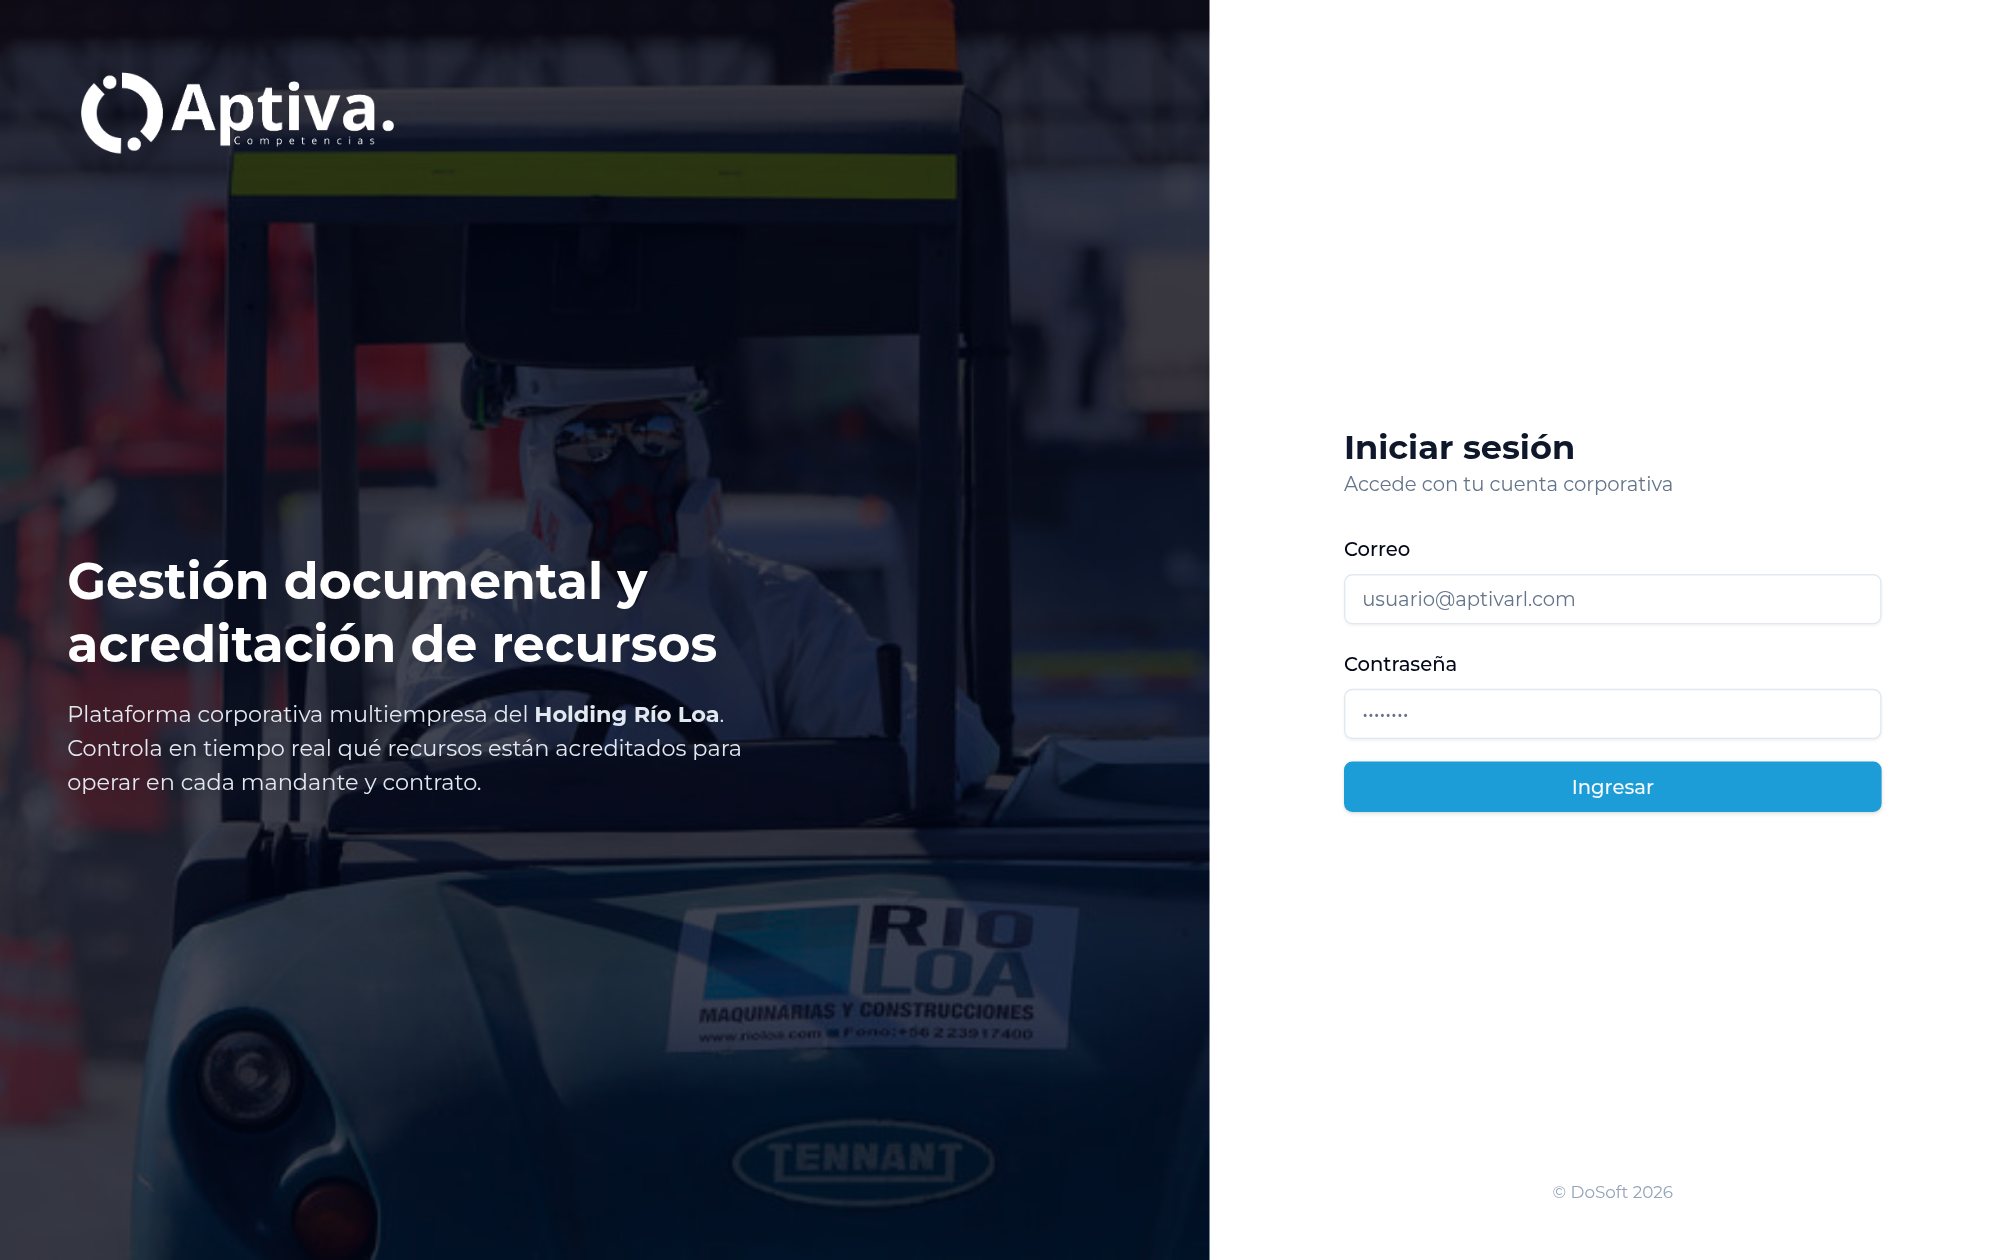
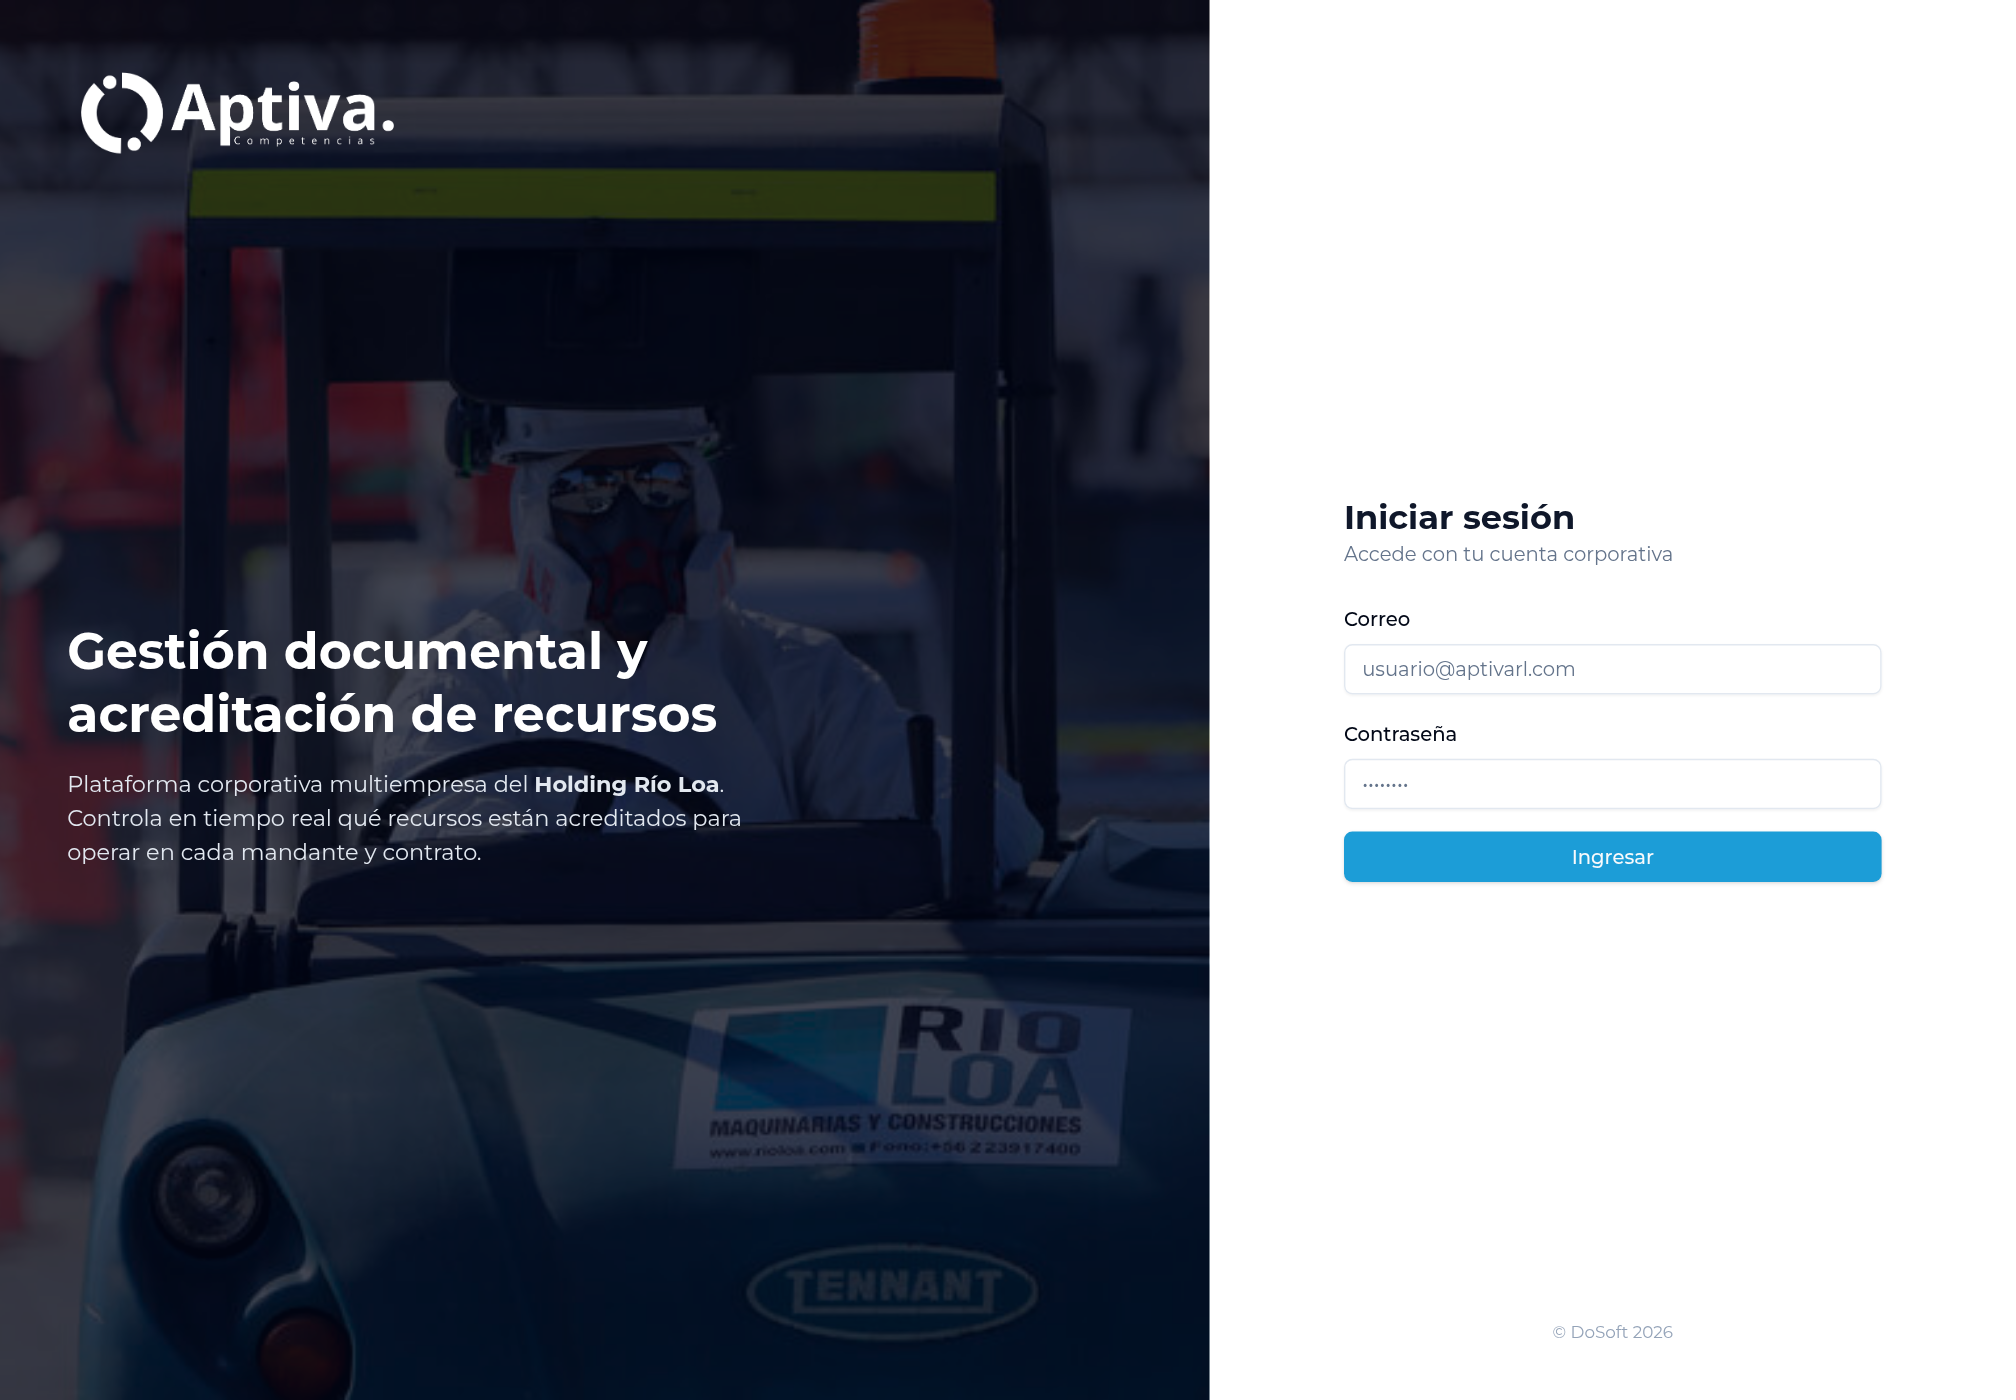
Listo. Cada manual ahora usa capturas reales tomadas **con su propio perfil**, sin cortes en el PDF.
## Capturas por perfil — Completado

**Qué se corrigió:**
- Las capturas ya **no muestran la vista del Super Admin** en todos los manuales. Se tomaron screenshots reales **iniciando sesión con cada perfil**:
  - **Super Admin Holding**: menú completo con Administración (Dashboard, Mandantes, Trabajadores, Ficha, Usuarios, Control de Acceso).
  - **RR.HH.**: Trabajadores, Ficha, Pendientes de Revisión, Vencimientos, Personal Finiquitado.
  - **Prevención/APR**: Dashboard, Trabajadores, Ficha, Pendientes de Revisión, Vencimientos — con su menú real (**sin Administración ni Personal Finiquitado**, cabecera "Yesenia Marchant · Prevención").
  - **Visor**: Dashboard, Ficha, Vencimientos — con cabecera "Visor" y su menú.
- Cada manual apunta a su propia carpeta de imágenes (`/manual/<perfil>/…`); la pantalla de login es común.

**Detalles técnicos:**
- Se creó un usuario **Visor temporal** solo para capturar sus vistas y se **eliminó** al terminar (no quedó ningún usuario de prueba).
- Verificado con **PDFs reales** por perfil (Prevención 7 págs, Visor 5 págs): las capturas corresponden a cada perfil y **no se cortan**.
- Capturas antiguas del Super Admin removidas del nivel raíz; script de regeneración en `/app/scripts/capture_manual_shots.js`.
- `puppeteer-core` retirado de dependencias tras capturar (protege el `yarn install` de producción).

Es un cambio de contenido/imágenes (frontend), verificado con PDF real. Llegará a producción con el despliegue.
[…]

diff --git a/scripts/capture_manual_shots.js b/scripts/capture_manual_shots.js
@@ -1,85 +1,95 @@
-// Captura screenshots reales de la plataforma para los manuales.
-// Ejecutar: node scripts/capture_manual_shots.js
+// Captura screenshots reales por PERFIL para los manuales.
+// Requiere puppeteer-core (temporal). node scripts/capture_manual_shots.js
 const puppeteer = require('puppeteer-core');
-const fs = require('fs');
 const path = require('path');
-
-const OUT = '/app/public/manual';
 const BASE = 'http://localhost:3000';
-const CHROME = fs.existsSync('/usr/bin/google-chrome') ? '/usr/bin/google-chrome' : '/root/bin/chromium';
-
+const CHROME = '/usr/bin/google-chrome';
+const OUT = '/app/public/manual';
+const MID_SQM = '80eee7c1-f817-4f25-a303-09ca108f3824';
 const sleep = (ms) => new Promise((r) => setTimeout(r, ms));
 
-async function clickText(page, text) {
+async function apiLogin(email, password) {
+  const r = await fetch(`${BASE}/api/auth/login`, { method: 'POST', headers: { 'Content-Type': 'application/json' }, body: JSON.stringify({ email, password }) });
+  return r.json();
+}
+
+async function clickNav(page, text) {
   const els = await page.$x(`//nav//*[normalize-space(text())='${text}']`);
-  let el = els[0];
-  if (!el) { const e2 = await page.$x(`//*[normalize-space(text())='${text}']`); el = e2[0]; }
-  if (el) { await el.click(); return true; }
+  if (els[0]) { await els[0].click(); return true; }
   return false;
 }
 
 async function login(page, email, password) {
   await page.goto(BASE, { waitUntil: 'networkidle2', timeout: 45000 });
-  await sleep(1200);
-  await page.waitForSelector('input[placeholder="usuario@aptivarl.com"]', { timeout: 20000 });
-  await page.type('input[placeholder="usuario@aptivarl.com"]', email, { delay: 10 });
-  await page.type('input[type="password"]', password, { delay: 10 });
-  const [btn] = await page.$x(`//button[contains(.,'Ingresar')]`);
-  await btn.click();
+  await page.evaluate(() => localStorage.clear());
+  await page.reload({ waitUntil: 'networkidle2' });
+  await sleep(1000);
+  await page.waitForSelector('input[type="password"]', { timeout: 20000 });
+  await page.type('input[placeholder="usuario@aptivarl.com"]', email, { delay: 8 });
+  await page.type('input[type="password"]', password, { delay: 8 });
+  const [b] = await page.$x(`//button[contains(.,'Ingresar')]`);
+  await b.click();
   await page.waitForFunction(() => !document.querySelector('input[type="password"]'), { timeout: 25000 });
-  await sleep(3500);
+  await sleep(3000);
 }
 
-async function shot(page, name) {
-  try { await page.screenshot({ path: path.join(OUT, name + '.png') }); console.log('  saved', name); }
-  catch (e) { console.log('  shot err', name, e.message); }
-}
-
-async function nav(page, text, name) {
+async function capture(page, id, shot) {
+  const file = path.join(OUT, id, shot + '.png');
   try {
-    const ok = await clickText(page, text);
-    if (!ok) { console.log('  nav miss', text); return false; }
-    await sleep(2800);
-    await shot(page, name);
-    return true;
-  } catch (e) { console.log('  nav err', text, e.message); return false; }
+    if (shot === 'dashboard') await clickNav(page, 'Dashboard');
+    else if (shot === 'mandantes') await clickNav(page, 'Mandantes');
+    else if (shot === 'trabajadores') await clickNav(page, 'Trabajadores');
+    else if (shot === 'pendientes') await clickNav(page, 'Pendientes de Revisión');
+    else if (shot === 'vencimientos') await clickNav(page, 'Vencimientos');
+    else if (shot === 'usuarios') await clickNav(page, 'Usuarios');
+    else if (shot === 'acceso') await clickNav(page, 'Control de Acceso');
+    else if (shot === 'finiquitados') await clickNav(page, 'Personal Finiquitado');
+    else if (shot === 'ficha_doc') {
+      await clickNav(page, 'Trabajadores'); await sleep(2600);
+      const [acc] = await page.$x(`//button[normalize-space(.)='Acceder']`);
+      if (acc) { await acc.click(); await sleep(3200); }
+    }
+    await sleep(2400);
+    await page.screenshot({ path: file });
+    console.log('  OK', id, shot);
+  } catch (e) { console.log('  ERR', id, shot, e.message); }
 }
+
+const JOBS = [
+  { id: 'super_admin', email: 'admin@aptivarl.com', shots: ['dashboard', 'mandantes', 'trabajadores', 'ficha_doc', 'usuarios', 'acceso'] },
+  { id: 'rrhh', email: 'pmiranda@rioloa.cl', shots: ['trabajadores', 'ficha_doc', 'pendientes', 'vencimientos', 'finiquitados'] },
+  { id: 'prevencion', email: 'ymarchant@rioloa.cl', shots: ['dashboard', 'trabajadores', 'ficha_doc', 'pendientes', 'vencimientos'] },
+  { id: 'visor', email: 'visor.tmp@rioloa.cl', shots: ['dashboard', 'ficha_doc', 'vencimientos'] },
+];
 
 (async () => {
-  fs.mkdirSync(OUT, { recursive: true });
-  const browser = await puppeteer.launch({ executablePath: CHROME, headless: 'new', args: ['--no-sandbox', '--disable-setuid-sandbox', '--disable-dev-shm-usage'] });
-  const page = await browser.newPage();
-  await page.setViewport({ width: 1440, height: 900, deviceScaleFactor: 1.4 });
-
-  // ===== Super Admin Holding =====
-  console.log('== Super Admin ==');
-  await login(page, 'admin@aptivarl.com', 'Aptiva2025!');
-  await shot(page, 'dashboard');
-  await nav(page, 'Mandantes', 'mandantes');
-  await nav(page, 'Trabajadores', 'trabajadores');
-  // abrir ficha del primer trabajador
+  const adm = await apiLogin('admin@aptivarl.com', 'Aptiva2025!');
+  let visorId = null;
   try {
-    const row = await page.$('table tbody tr');
-    if (row) { await row.click(); await sleep(3200); await shot(page, 'ficha_doc'); }
-  } catch (e) { console.log('  ficha err', e.message); }
-  await nav(page, 'Pendientes de Revisión', 'pendientes');
-  await nav(page, 'Vencimientos', 'vencimientos');
-  await nav(page, 'Usuarios', 'usuarios');
-  await nav(page, 'Control de Acceso', 'acceso');
-  // sidebar completo (recorta franja izquierda del dashboard)
-  await nav(page, 'Dashboard', '_dash2');
-  try { await page.screenshot({ path: path.join(OUT, 'sidebar_holding.png'), clip: { x: 0, y: 0, width: 250, height: 900 } }); console.log('  saved sidebar_holding'); } catch (e) { console.log(e.message); }
+    const r = await fetch(`${BASE}/api/usuarios`, { method: 'POST', headers: { 'Content-Type': 'application/json', Authorization: `Bearer ${adm.token}` }, body: JSON.stringify({ email: 'visor.tmp@rioloa.cl', password: 'Aptiva2025!', nombre: 'Visor Demo', role_codigo: 'MANDANTE_VISOR', mandantes: [MID_SQM] }) });
+    const j = await r.json(); visorId = j.perfil?.perfil_id; console.log('visor temp:', r.status, visorId || j.error);
+  } catch (e) { console.log('visor create err', e.message); }
 
-  // ===== RR.HH. =====
-  console.log('== RR.HH. (pmiranda) ==');
-  try {
-    await login(page, 'pmiranda@rioloa.cl', 'Aptiva2025!');
-    await sleep(1500);
-    try { await page.screenshot({ path: path.join(OUT, 'sidebar_rrhh.png'), clip: { x: 0, y: 0, width: 250, height: 900 } }); console.log('  saved sidebar_rrhh'); } catch (e) {}
-    await nav(page, 'Personal Finiquitado', 'finiquitados');
-  } catch (e) { console.log('  rrhh err', e.message); }
+  const b = await puppeteer.launch({ executablePath: CHROME, headless: 'new', args: ['--no-sandbox', '--disable-setuid-sandbox', '--disable-dev-shm-usage'] });
+  const page = await b.newPage();
+  await page.setViewport({ width: 1440, height: 1000, deviceScaleFactor: 1.4 });
 
-  await browser.close();
-  console.log('DONE');
-  process.exit(0);
+  await page.goto(BASE, { waitUntil: 'networkidle2', timeout: 45000 });
+  await page.evaluate(() => localStorage.clear());
+  await page.reload({ waitUntil: 'networkidle2' }); await sleep(1500);
+  await page.screenshot({ path: path.join(OUT, 'login.png') }); console.log('  OK login (compartido)');
+
+  for (const job of JOBS) {
+    console.log('== ' + job.id + ' ==');
+    try {
+      await login(page, job.email, 'Aptiva2025!');
+      for (const s of job.shots) await capture(page, job.id, s);
+    } catch (e) { console.log('  login err', job.id, e.message); }
+  }
+  await b.close();
+
+  if (visorId) {
+    try { const r = await fetch(`${BASE}/api/usuarios/${visorId}`, { method: 'DELETE', headers: { Authorization: `Bearer ${adm.token}` } }); console.log('visor delete:', r.status); } catch (e) { console.log('del err', e.message); }
+  }
+  console.log('DONE'); process.exit(0);
 })().catch((e) => { console.log('FATAL', e.message); process.exit(1); });

diff --git a/lib/manuales.js b/lib/manuales.js
@@ -11,8 +11,9 @@
 // también en la ventana de impresión (Guardar como PDF).
 const IMG_BASE = (typeof process !== 'undefined' && process.env && process.env.NEXT_PUBLIC_BASE_URL) ? process.env.NEXT_PUBLIC_BASE_URL.replace(/\/$/, '') : '';
 const LOGO_URL = `${IMG_BASE}/manual/logo-rioloa.png`;
-// Captura real de la plataforma
-const SHOT = (name, cap) => `<figure class="md-shot"><figcaption class="md-shot-cap">${cap}</figcaption><img class="md-img" src="${IMG_BASE}/manual/${name}.png" alt="${cap}" loading="lazy"/></figure>`;
+// Captura real de la plataforma (por perfil: carpeta = id del manual; login es compartido)
+const shotUrl = (m, name) => (name === 'login' ? `${IMG_BASE}/manual/login.png` : `${IMG_BASE}/manual/${m.id}/${name}.png`);
+const SHOT = (m, name, cap) => `<figure class="md-shot"><figcaption class="md-shot-cap">${cap}</figcaption><img class="md-img" src="${shotUrl(m, name)}" alt="${cap}" loading="lazy"/></figure>`;
 
 export const MANUALES = [
   {
@@ -220,17 +221,17 @@ export const MANUALES = [
 const chip = (txt, bg, fg) => `<span class="md-chip" style="background:${bg};color:${fg}">${txt}</span>`;
 
 const EXTRAS = {
-  login: () => SHOT('login', 'Pantalla de inicio de sesión'),
+  login: (m) => SHOT(m, 'login', 'Pantalla de inicio de sesión'),
 
-  dashboard: () => SHOT('dashboard', 'Dashboard · indicadores del Holding en tiempo real'),
+  dashboard: (m) => SHOT(m, 'dashboard', 'Dashboard · indicadores del Holding en tiempo real'),
 
-  mandantes: () => SHOT('mandantes', 'Operación → Mandantes (clientes de Río Loa)'),
+  mandantes: (m) => SHOT(m, 'mandantes', 'Operación → Mandantes (clientes de Río Loa)'),
 
-  recursos: () => SHOT('trabajadores', 'Recursos → Trabajadores'),
+  recursos: (m) => SHOT(m, 'trabajadores', 'Recursos → Trabajadores'),
 
-  trabajadores: () => SHOT('trabajadores', 'Recursos → Trabajadores'),
+  trabajadores: (m) => SHOT(m, 'trabajadores', 'Recursos → Trabajadores'),
 
-  estados: () => `
+  estados: (m) => `
     <div class="md-info">
       <div class="md-info-title">Estados de un documento</div>
       <div class="md-states">
@@ -241,22 +242,22 @@ const EXTRAS = {
         <div class="md-state">${chip('Vencido','#ffedd5','#9a3412')}<span>Venció, renovar</span></div>
       </div>
       <div class="md-flow">
-        <span>Cargar</span><i>→</i><span>En revisión</span><i>→</i><span>Aprobado</span><i>→</i><span>Vencido (renovar)</span>
+        <span>Cargar</span><i>&rarr;</i><span>En revisión</span><i>&rarr;</i><span>Aprobado</span><i>&rarr;</i><span>Vencido (renovar)</span>
       </div>
     </div>
-    ${SHOT('ficha_doc', 'Ficha del trabajador · pestaña «Documentación» con requisitos por categoría')}`,
+    ${SHOT(m, 'ficha_doc', 'Ficha del trabajador · pestaña «Documentación» con requisitos por categoría')}`,
 
-  ficha: () => SHOT('ficha_doc', 'Ficha del recurso · pestaña «Documentación»'),
+  ficha: (m) => SHOT(m, 'ficha_doc', 'Ficha del recurso · pestaña «Documentación»'),
 
-  revision: () => SHOT('pendientes', 'Acreditación → Pendientes de Revisión (Aprobar / Rechazar)'),
+  revision: (m) => SHOT(m, 'pendientes', 'Acreditación → Pendientes de Revisión (Aprobar / Rechazar)'),
 
-  vencimientos: () => SHOT('vencimientos', 'Acreditación → Vencimientos (por tramos de días)'),
+  vencimientos: (m) => SHOT(m, 'vencimientos', 'Acreditación → Vencimientos (por tramos de días)'),
 
-  usuarios: () => SHOT('usuarios', 'Administración → Usuarios (personal de Río Loa)'),
+  usuarios: (m) => SHOT(m, 'usuarios', 'Administración → Usuarios (personal de Río Loa)'),
 
-  acceso: () => SHOT('acceso', 'Administración → Control de Acceso (porterías / visor)'),
+  acceso: (m) => SHOT(m, 'acceso', 'Administración → Control de Acceso (porterías / visor)'),
 
-  finiquito: () => SHOT('finiquitados', 'Acreditación → Personal Finiquitado (desvinculaciones)'),
+  finiquito: (m) => SHOT(m, 'finiquitados', 'Acreditación → Personal Finiquitado (desvinculaciones)'),
 };
 
 /* ============================ Comparativo de permisos ============================ */
@@ -434,7 +435,7 @@ function bodyContenido(m) {
     <div class="md-sec">
       <h2>${i + 1}. ${s.titulo}</h2>
       <ol class="md-steps">${s.pasos.map((p) => `<li>${p}</li>`).join('')}</ol>
-      ${s.extra && EXTRAS[s.extra] ? EXTRAS[s.extra]() : ''}
+      ${s.extra && EXTRAS[s.extra] ? EXTRAS[s.extra](m) : ''}
     </div>`).join('');
 
   return `
